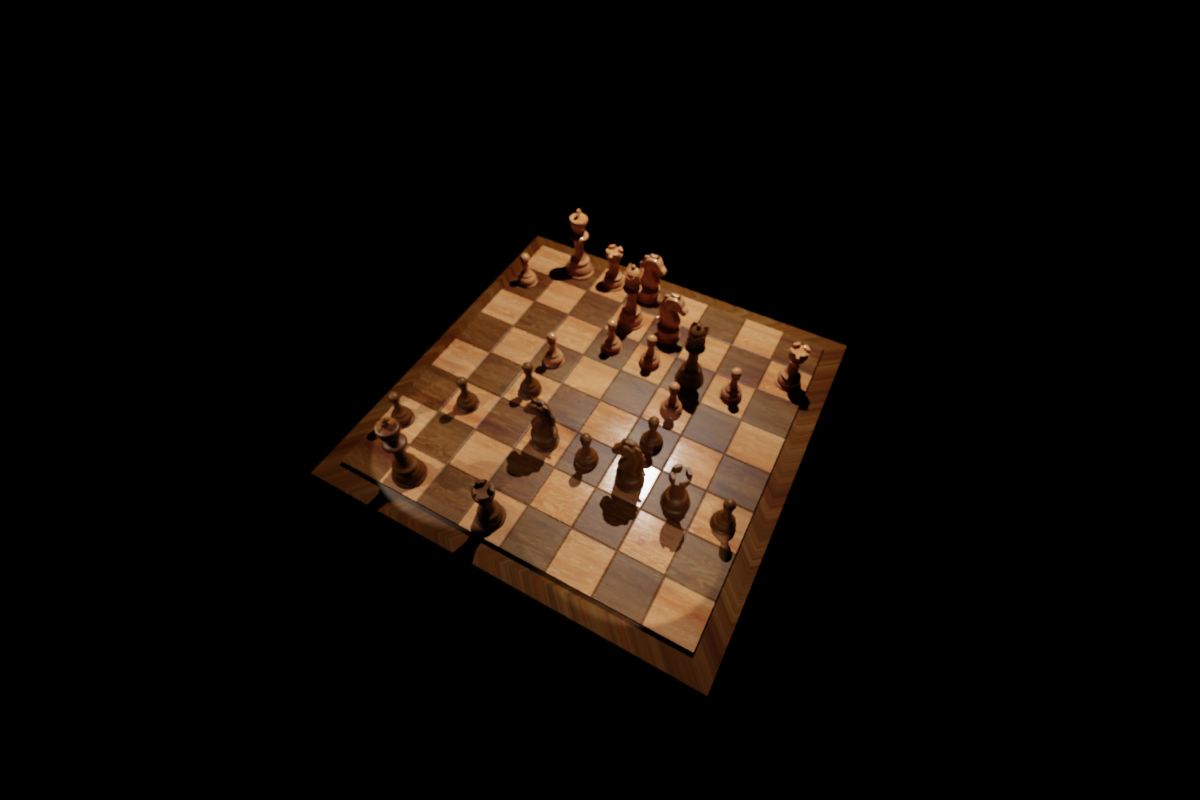
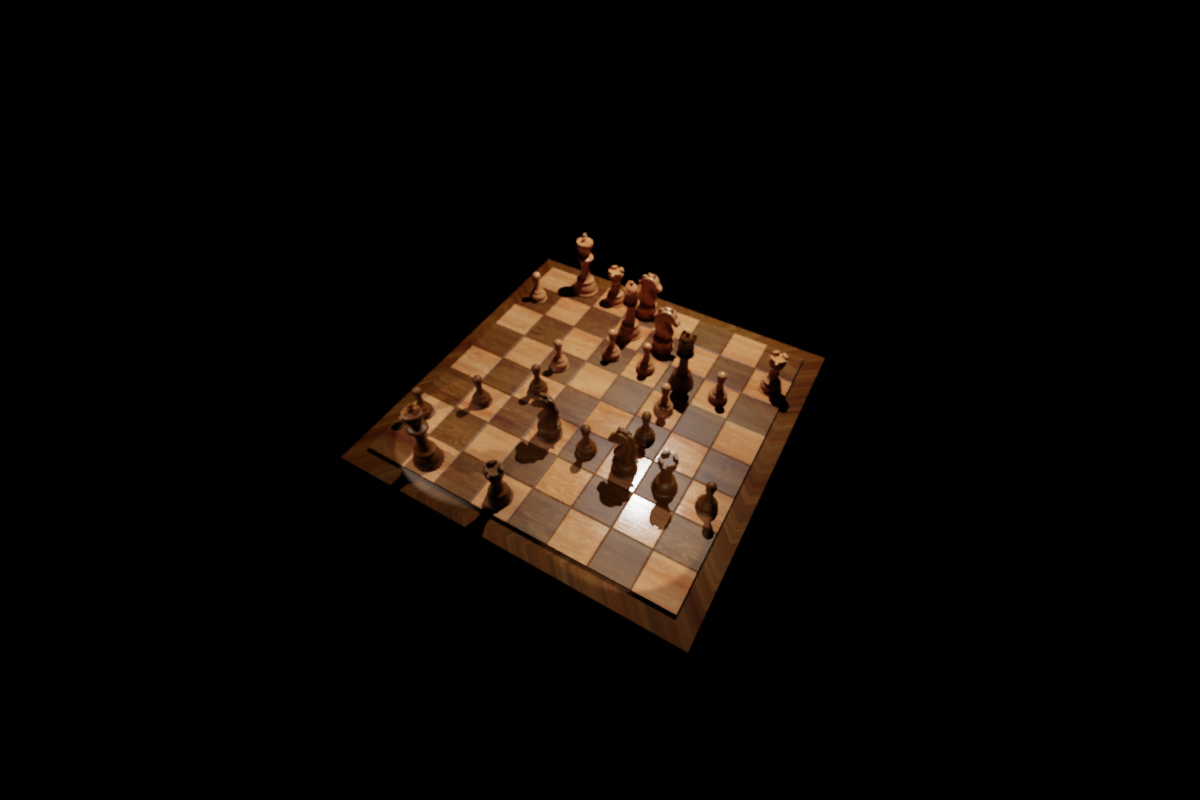
readme updated

Changed region(s): [[0.2467, 0.25, 0.7092, 0.875]]

diff --git a/scripts/synthesize_data.py b/scripts/synthesize_data.py
@@ -40,8 +40,8 @@ def setup_camera(color: chess.Color) -> dict:
     board_center = mathutils.Vector((0., 0., 0.))
     # Randomize azimuth, radius and height
     azimuth = np.random.uniform(0, 360)
-    # Camera radius: min 4, max 9 (in SQUARE_LENGTH units)
-    radius = np.random.uniform(4 * SQUARE_LENGTH, 9 * SQUARE_LENGTH)
+    # Camera radius: min 4, max 10 (in SQUARE_LENGTH units)
+    radius = np.random.uniform(4 * SQUARE_LENGTH, 10 * SQUARE_LENGTH)
     x = radius * np.cos(np.deg2rad(azimuth))
     y = radius * np.sin(np.deg2rad(azimuth))
     # Camera height: min 8, max 14 (in SQUARE_LENGTH units)

diff --git a/README.md b/README.md
@@ -1,5 +1,7 @@
 # Synthetic Dataset Generation with Blender (Windows)
 
+![Sample](./media/sample.png)
+
 This guide explains how to generate your own **synthetic chess dataset** using Blender on **Windows**. Is based on this repository: 👉 [https://github.com/georg-wolflein/chesscog](https://github.com/georg-wolflein/chesscog)
 
 ---
@@ -44,11 +46,13 @@ From the `synthetic_data_generation` project root directory, run:
 - `--background` → run Blender without GUI.  
 - `--python scripts/synthesize_data.py` → runs the dataset generation script.
 
+**Note:** In the script, you can choose to keep the camera and lights static (as configured in Blender) or make them dynamic to capture images from different angles and with varied lighting conditions.
+
 The output dataset will be created in the default path (`/render` or as configured in the script).
 
 ---
 
 ## 🔹 Step 5. (Optional) Create YOLO Dataset
-To convert from `.json` to a YOLO-style dataset, an additional Jupyter Notebook is provided. It generates `labels` and `images` folders inside the `/dataset` directory.
+To convert from `.json` to a YOLO-style dataset, an additional Jupyter Notebook is provided. It generates `labels` and `images` folders inside the `/dataset` directory. You will need to install `OpenCV` to run this.
 
 ✅ After completing these steps, you will have your own synthesized chess dataset generated with Blender!
